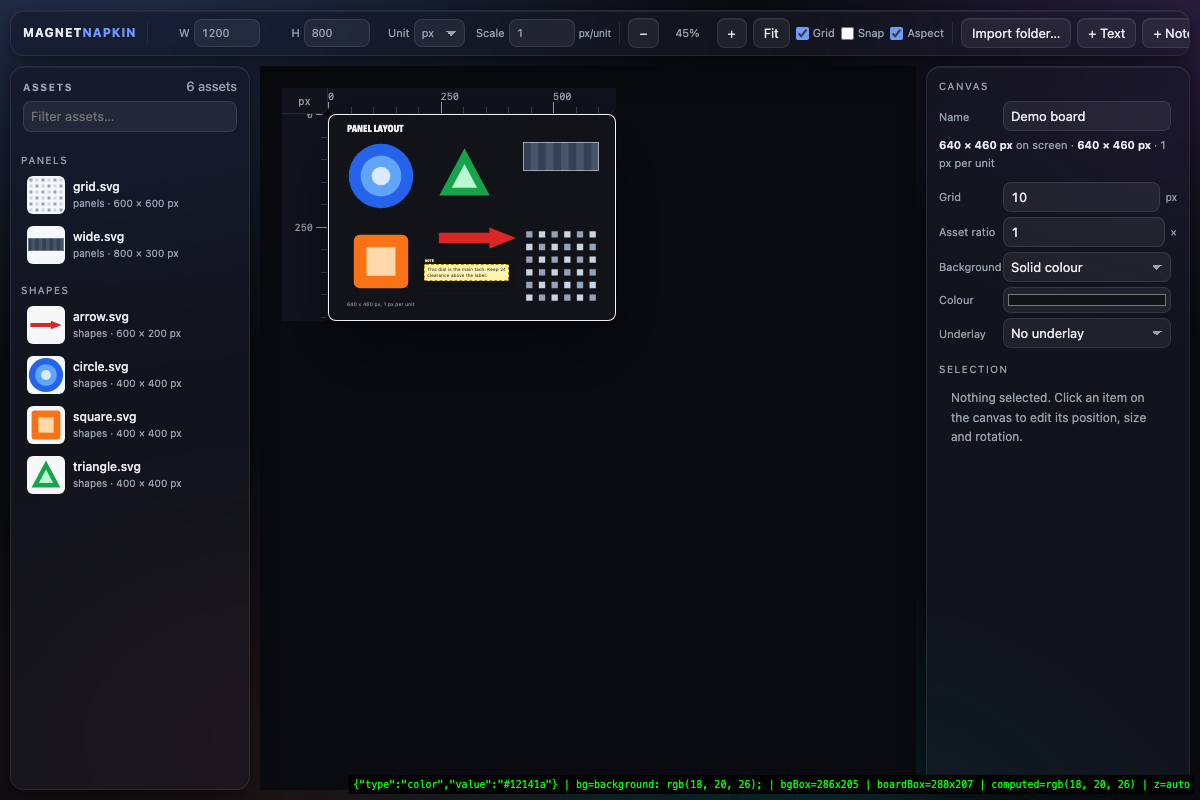
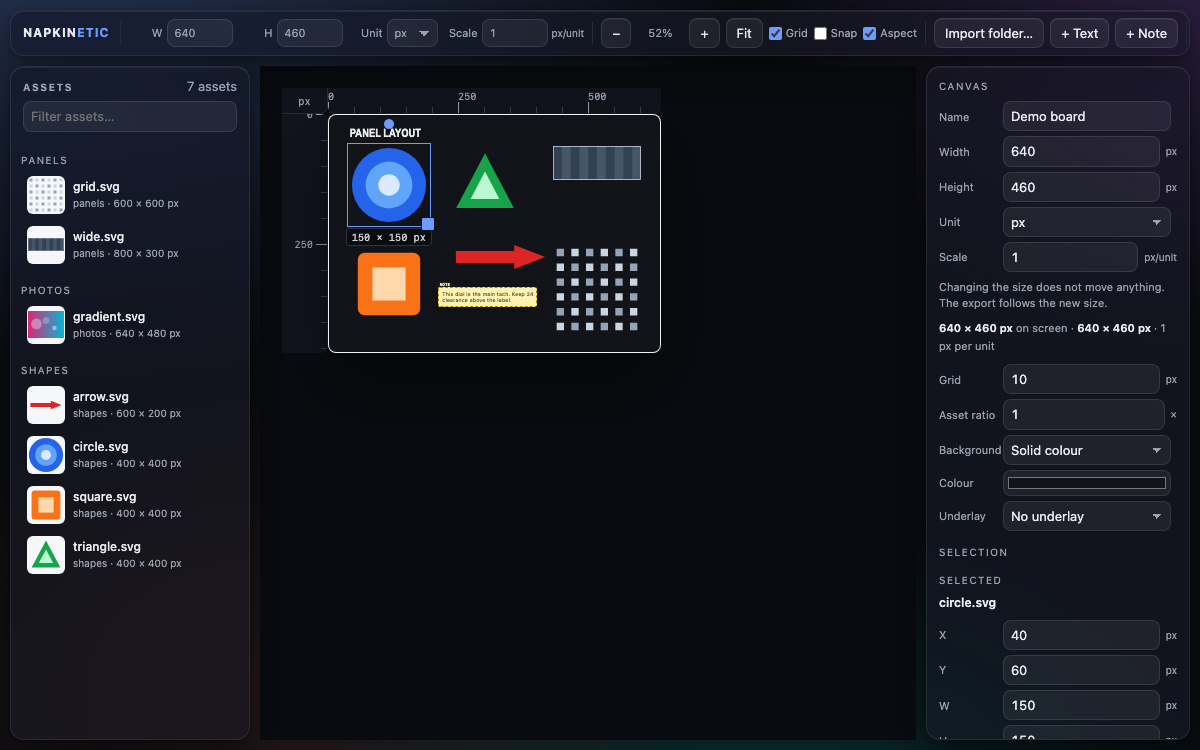
feat: rename the project to Napkinetic, and add a README animation
The repo, the folder, the brand, the format string and the storage names all
move together. The header is now the app doing its thing, and the prototype
clip is embedded so GitHub plays it instead of linking to a file page.

diff --git a/tests/frames.html b/tests/frames.html
@@ -1,0 +1,129 @@
+<!doctype html>
+<html lang="en">
+<head>
+<meta charset="utf-8">
+<title>Napkinetic — frame %N%</title>
+<style>
+  html, body { margin: 0; padding: 0; background: #090b10; overflow: hidden; }
+  iframe { display: block; width: 1200px; height: 750px; border: 0; }
+</style>
+</head>
+<body>
+<img src="/__hold?seconds=10" alt="" style="position:absolute;left:-99999px">
+<iframe id="app" style="display:none"></iframe>
+<script>
+/* Builds one frame of the README animation.
+
+   Open it with ?step=N and screenshot the page: each step is a moment in a
+   real workflow — the tray filling, the artwork going down, a note landing,
+   an item selected so the inspector shows its numbers.
+
+     python3 tests/serve.py
+     for n in $(seq 0 11); do
+       chrome --headless --screenshot=frame-$n.png \
+         "http://127.0.0.1:8124/tests/frames.html?step=$n"
+     done
+*/
+const step = Math.max(0, Math.min(11, Number(new URLSearchParams(location.search).get("step") || 0)));
+const frame = document.getElementById("app");
+
+const SHAPES = [
+  ["samples/shapes/circle.svg", "circle.svg"],
+  ["samples/shapes/square.svg", "square.svg"],
+  ["samples/shapes/triangle.svg", "triangle.svg"],
+  ["samples/shapes/arrow.svg", "arrow.svg"],
+  ["samples/panels/wide.svg", "wide.svg"],
+  ["samples/panels/grid.svg", "grid.svg"],
+  ["samples/photos/gradient.svg", "gradient.svg"],
+];
+
+const cleared = indexedDB.deleteDatabase("napkinetic");
+cleared.onsuccess = cleared.onerror = cleared.onblocked = function () {
+  frame.src = "/index.html";
+};
+
+frame.addEventListener("load", async function () {
+  const w = frame.contentWindow;
+  await new Promise(function (r) { setTimeout(r, 1200); });
+  const S = w.MN.state;
+  const state = S.state;
+
+  state.projectName = "Demo board";
+  state.canvas.width = 640;
+  state.canvas.height = 460;
+  state.canvas.unit = "px";
+  state.canvas.scale = 1;
+  state.canvas.background = { type: "color", value: "#12141a" };
+  state.view.zoom = 0.52;
+  state.view.grid = true;
+
+  /* The tray fills first. */
+  const entries = [];
+  for (const pair of SHAPES) {
+    const blob = await (await fetch("/" + pair[0])).blob();
+    entries.push({ file: new File([blob], pair[1], { type: "image/svg+xml" }), path: pair[0] });
+  }
+  await w.MN.assets.importEntries(entries);
+
+  const byName = function (name) { return state.assets.find(function (a) { return a.name === name; }); };
+  const put = function (name, x, y, width, height) {
+    const it = S.newImageItem(byName(name), 0, 0);
+    it.x = x; it.y = y; it.w = width; it.h = height;
+    state.items.push(it);
+    return it;
+  };
+
+  /* Then the artwork goes down, piece by piece. */
+  const placed = [];
+  placed.push(put("circle.svg", 40, 60, 150, 150));
+  placed.push(put("square.svg", 40, 250, 150, 150));
+  placed.push(put("triangle.svg", 230, 60, 140, 140));
+  placed.push(put("arrow.svg", 230, 240, 200, 66));
+  placed.push(put("wide.svg", 430, 60, 170, 64));
+  placed.push(put("grid.svg", 430, 250, 170, 170));
+
+  const label = S.newTextItem("PANEL LAYOUT");
+  label.x = 40; label.y = 20; label.w = 300;
+  label.fontFamily = "Arial Narrow"; label.fontSize = 22; label.fontWeight = 700; label.color = "#ededed";
+  state.items.push(label);
+  w.MN.items.syncTextHeight(label);
+
+  const note = w.MN.interact.placeNote("This dial is the main tach. Keep 24 pt clearance above the label.");
+  note.x = 210; note.y = 330; note.w = 190; note.fontSize = 10;
+  w.MN.items.syncTextHeight(note);
+
+  /* Each step shows only as much as has happened by then. */
+  const order = [
+    { items: 0, notes: 0, select: false },   // the empty board
+    { items: 1, notes: 0, select: false },   // the first gauge
+    { items: 2, notes: 0, select: false },
+    { items: 3, notes: 0, select: false },
+    { items: 4, notes: 0, select: false },
+    { items: 5, notes: 0, select: false },
+    { items: 6, notes: 0, select: false },   // all the artwork
+    { items: 7, notes: 0, select: false },   // and the label
+    { items: 7, notes: 1, select: false },   // and a note
+    { items: 7, notes: 1, select: true },   // select the gauge
+    { items: 7, notes: 1, select: false },
+    { items: 7, notes: 1, select: true }
+  ];
+  const shot = order[step];
+
+  state.items.length = shot.items;
+  state.notes.length = shot.notes;
+  S.commit("frame");
+  if (shot.select && state.items.length) {
+    S.select("item", state.items[0].id);
+  } else {
+    S.deselect();
+  }
+  w.MN.stage.applyView();
+  const viewport = frame.contentDocument.querySelector("#viewport");
+  viewport.scrollLeft = 0;
+  viewport.scrollTop = 0;
+  frame.style.display = "block";
+  document.title = "READY " + step;
+});
+</script>
+</body>
+</html>

diff --git a/tests/smoke.html b/tests/smoke.html
@@ -2,7 +2,7 @@
 <html lang="en">
 <head>
 <meta charset="utf-8">
-<title>Magnet Napkin — smoke test</title>
+<title>Napkinetic — smoke test</title>
 <style>
   body { font: 13px/1.5 ui-monospace, Menlo, monospace; margin: 0; padding: 12px; background: #fff; color: #111; }
   h1 { font-size: 14px; margin: 0 0 8px; }
@@ -13,7 +13,7 @@
 </style>
 </head>
 <body>
-<h1>Magnet Napkin — smoke test</h1>
+<h1>Napkinetic — smoke test</h1>
 <div id="out">running…</div>
 <img id="hold" src="/__hold?seconds=12" alt="" style="position:absolute;left:-9999px">
 <iframe id="frame" src="/index.html"></iframe>
@@ -162,7 +162,7 @@ frame.addEventListener("load", async function () {
     /* an asset dragged out of the tray is not an import */
     w.document.body.classList.remove("dropping");
     const internal = new DataTransfer();
-    internal.setData("application/x-magnet-napkin-asset", "x");
+    internal.setData("application/x-napkinetic-asset", "x");
     w.document.dispatchEvent(new w.DragEvent("dragenter", { dataTransfer: internal, bubbles: true, cancelable: true }));
     log("dragging an asset out of the tray does not flash the import overlay",
       !w.document.body.classList.contains("dropping"));
@@ -213,7 +213,7 @@ frame.addEventListener("load", async function () {
 
     /* the document format */
     const doc = MN.project.documentOf();
-    log("document format", doc.format === "magnet-napkin/v1" && doc.items.length === state.items.length);
+    log("document format", doc.format === "napkinetic/v1" && doc.items.length === state.items.length);
     log("notes are a separate array", Array.isArray(doc.notes) && doc.notes.length === 1 &&
       doc.items.every(function (i) { return i.kind !== "note"; }));
 
@@ -221,7 +221,7 @@ frame.addEventListener("load", async function () {
     let idb = false;
     try {
       await new Promise(function (resolve, reject) {
-        const request = w.indexedDB.open("magnet-napkin-test", 1);
+        const request = w.indexedDB.open("napkinetic-test", 1);
         request.onsuccess = function () { resolve(); };
         request.onerror = function () { reject(request.error); };
       });

diff --git a/js/project.js b/js/project.js
@@ -1,4 +1,4 @@
-/* Magnet Napkin — projects and persistence.
+/* Napkinetic — projects and persistence.
    The board is the work, so the store has to survive more than one tab.
 
    The rules this file exists to keep:
@@ -22,9 +22,9 @@
   const S = MN.state;
   const state = S.state;
 
-  const FORMAT = "magnet-napkin/v1";
-  const DB_MAIN = "magnet-napkin";
-  const DB_META = "magnet-napkin-meta";
+  const FORMAT = "napkinetic/v1";
+  const DB_MAIN = "napkinetic";
+  const DB_META = "napkinetic-meta";
   const STORE_PROJECT = "project";
   const STORE_HISTORY = "history";
   const STORE_VIEW = "view";
@@ -34,7 +34,7 @@
   const HISTORY_LIMIT = 50;
   const HISTORY_BYTES = 8 * 1024 * 1024;
   const ROLLING_INTERVAL = 60000;
-  const CHANNEL = "magnet-napkin";
+  const CHANNEL = "napkinetic";
 
   /* Every tab gets an identity, so a message from another tab is never
      mistaken for our own. */
@@ -193,7 +193,7 @@
     delete canvas.underlay;
     return {
       format: FORMAT,
-      name: state.projectName || "Magnet Napkin board",
+      name: state.projectName || "Napkinetic board",
       canvas: canvas,
       assets: state.assets.map(function (asset) {
         return {
@@ -647,7 +647,7 @@
 
   async function loadDocument(doc, options) {
     const opts = options || {};
-    if (!doc || typeof doc !== "object") throw new Error("That file is not a Magnet Napkin project.");
+    if (!doc || typeof doc !== "object") throw new Error("That file is not a Napkinetic project.");
     if (doc.format !== FORMAT) {
       throw new Error("Unknown format: " + (doc.format || "none") + ". Expected " + FORMAT + ".");
     }
@@ -697,7 +697,7 @@
     state.canvas = normaliseCanvas(doc.canvas);
     state.items = (doc.items || []).map(normaliseItem).filter(Boolean);
     state.notes = (doc.notes || []).map(normaliseNote).filter(Boolean);
-    state.projectName = typeof doc.name === "string" ? doc.name : "Magnet Napkin board";
+    state.projectName = typeof doc.name === "string" ? doc.name : "Napkinetic board";
     state.selection = null;
     if (doc.view) applyViewState(doc.view);
 

diff --git a/tests/persistence.html b/tests/persistence.html
@@ -2,7 +2,7 @@
 <html lang="en">
 <head>
 <meta charset="utf-8">
-<title>Magnet Napkin — persistence test</title>
+<title>Napkinetic — persistence test</title>
 <style>
   body { font: 13px/1.5 ui-monospace, Menlo, monospace; margin: 0; padding: 12px; background: #fff; color: #111; }
   h1 { font-size: 14px; margin: 0 0 8px; }
@@ -13,7 +13,7 @@
 </style>
 </head>
 <body>
-<h1>Magnet Napkin — two-tab persistence test</h1>
+<h1>Napkinetic — two-tab persistence test</h1>
 <div id="out">running…</div>
 <iframe class="frames" id="tabA" src="/index.html"></iframe>
 <iframe class="frames" id="tabB" src="/index.html"></iframe>
@@ -46,7 +46,7 @@ const wait = function (ms) { return new Promise(function (r) { setTimeout(r, ms)
 function readCurrent(frame) {
   const w = frame.contentWindow;
   return new Promise(function (resolve) {
-    const request = w.indexedDB.open("magnet-napkin");
+    const request = w.indexedDB.open("napkinetic");
     request.onsuccess = function () {
       const db = request.result;
       const tx = db.transaction("project", "readonly");
@@ -65,7 +65,7 @@ function readCurrent(frame) {
   const wB = B.contentWindow;
 
   /* A clean store, and both tabs open before anything is saved. */
-  for (const name of ["magnet-napkin", "magnet-napkin-meta"]) {
+  for (const name of ["napkinetic", "napkinetic-meta"]) {
     await new Promise(function (resolve) {
       const request = indexedDB.deleteDatabase(name);
       let done = false;

diff --git a/index.html b/index.html
@@ -4,7 +4,7 @@
 <meta charset="utf-8">
 <meta name="viewport" content="width=device-width, initial-scale=1">
 <meta name="color-scheme" content="light dark">
-<title>Magnet Napkin</title>
+<title>Napkinetic</title>
 <meta name="description" content="Drop a folder of images onto a canvas of a known size, move them like magnets, leave notes that are clearly not part of the design, and export the layout plus a brief for a vision agent.">
 <link rel="stylesheet" href="styles.css">
 </head>
@@ -13,7 +13,7 @@
 <div id="app">
 
   <header id="toolbar">
-    <div class="brand">Magnet<em>Napkin</em></div>
+    <div class="brand">Napkin<em>etic</em></div>
 
     <div class="sep" role="separator"></div>
 
@@ -97,7 +97,7 @@
             <div id="notes"></div>
             <div id="guides" aria-hidden="true"></div>
             <div id="empty-state">
-              <h1>Magnet Napkin</h1>
+              <h1>Napkinetic</h1>
               <ol>
                 <li><b>Import</b> a folder of images — drop it anywhere on this page.</li>
                 <li><b>Set the canvas</b> to the real size: width, height, unit and scale, top left.</li>

diff --git a/js/handoff.js b/js/handoff.js
@@ -1,4 +1,4 @@
-/* Magnet Napkin — the agent handoff.
+/* Napkinetic — the agent handoff.
    Four files, one click each, all derived from the same project document:
      layout.png           the clean design
      layout-annotated.png the same board with the notes on top
@@ -33,7 +33,7 @@
   function notesMarkdown() {
     const c = state.canvas;
     const lines = [];
-    lines.push("# Handoff — " + (state.projectName || "Magnet Napkin board"));
+    lines.push("# Handoff — " + (state.projectName || "Napkinetic board"));
     lines.push("");
     lines.push("**layout.png is the design. The notes below are commentary and are not part of it.**");
     lines.push("");
@@ -62,7 +62,7 @@
   function handoffBrief() {
     const c = state.canvas;
     const lines = [];
-    lines.push("# " + (state.projectName || "Magnet Napkin board"));
+    lines.push("# " + (state.projectName || "Napkinetic board"));
     lines.push("");
     lines.push("Canvas: " + core.fmtNum(c.width, 2) + " × " + core.fmtNum(c.height, 2) + " " + unitLabel() +
       " (" + core.fmtNum(c.scale, 4) + " px per unit)");

diff --git a/js/state.js b/js/state.js
@@ -1,4 +1,4 @@
-/* Magnet Napkin — project state, selection and history.
+/* Napkinetic — project state, selection and history.
    The in-memory state is the file format: { canvas, assets, items, notes }.
    There is no translation layer between what the editor holds and what it
    writes, so layout.json is the editor with the view state removed. */
@@ -27,7 +27,7 @@
     items: [],       // design content. Array order is the z-order, last on top.
     notes: [],       // commentary. Never merged into items.
     selection: null, // { type: "item" | "note", id }
-    projectName: "Magnet Napkin board",
+    projectName: "Napkinetic board",
     view: {
       zoom: 1, grid: true, snap: true, aspect: true, gridSize: 10,
       /* When the imported files are @2x artwork, a newly placed asset should
@@ -59,7 +59,7 @@
       try {
         fn(payload);
       } catch (err) {
-        console.error("Magnet Napkin: listener for \"" + event + "\" failed", err);
+        console.error("Napkinetic: listener for \"" + event + "\" failed", err);
       }
     }
   }

diff --git a/js/inspector.js b/js/inspector.js
@@ -1,4 +1,4 @@
-/* Magnet Napkin — the inspector.
+/* Napkinetic — the inspector.
    The precision half of the tool: exact numbers, in canvas units, for the
    canvas and for whatever is selected. */
 (function (MN) {
@@ -66,7 +66,7 @@
       "aria-label": "Project name",
     });
     nameInput.addEventListener("change", function () {
-      state.projectName = nameInput.value || "Magnet Napkin board";
+      state.projectName = nameInput.value || "Napkinetic board";
       S.commit("rename project");
     });
     frag.appendChild(row("Name", nameInput));

diff --git a/js/interact.js b/js/interact.js
@@ -1,4 +1,4 @@
-/* Magnet Napkin — direct manipulation.
+/* Napkinetic — direct manipulation.
    Pointer events, not mouse events. The item's own box is the pointer capture
    target, so a fast drag never outruns the element. */
 (function (MN) {
@@ -9,7 +9,7 @@
   const state = S.state;
 
   const MIN_SIZE = 1;
-  const ASSET_MIME = "application/x-magnet-napkin-asset";
+  const ASSET_MIME = "application/x-napkinetic-asset";
 
   let drag = null;
 

diff --git a/js/items.js b/js/items.js
@@ -1,4 +1,4 @@
-/* Magnet Napkin — items and notes on the canvas.
+/* Napkinetic — items and notes on the canvas.
    Both are positioned DOM elements with the same handles. Items are design
    content and live in the items layer; notes are commentary and live in the
    notes layer, above everything. They are never merged. */

diff --git a/js/snap.js b/js/snap.js
@@ -1,4 +1,4 @@
-/* Magnet Napkin — snapping.
+/* Napkinetic — snapping.
    Snaps to the grid, to the canvas edges and centre, and to the edges and
    centres of everything else on the board. When something snaps, a thin
    guide line is drawn so the snap is visible rather than mysterious.

diff --git a/js/textlayout.js b/js/textlayout.js
@@ -1,4 +1,4 @@
-/* Magnet Napkin — text layout.
+/* Napkinetic — text layout.
    One measurement, two consumers: the editor draws the lines this returns,
    and the PNG exporter draws the same lines. Neither side re-wraps, so the
    exported text cannot disagree with the screen.
